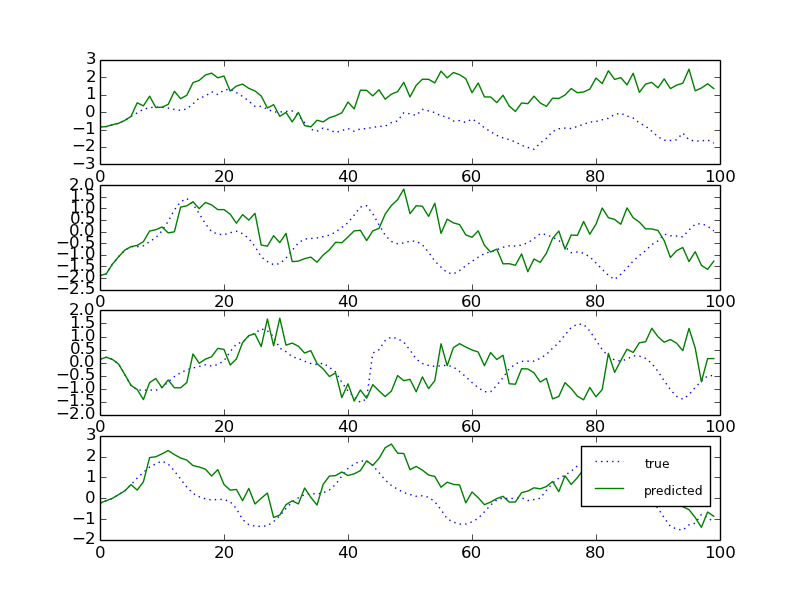
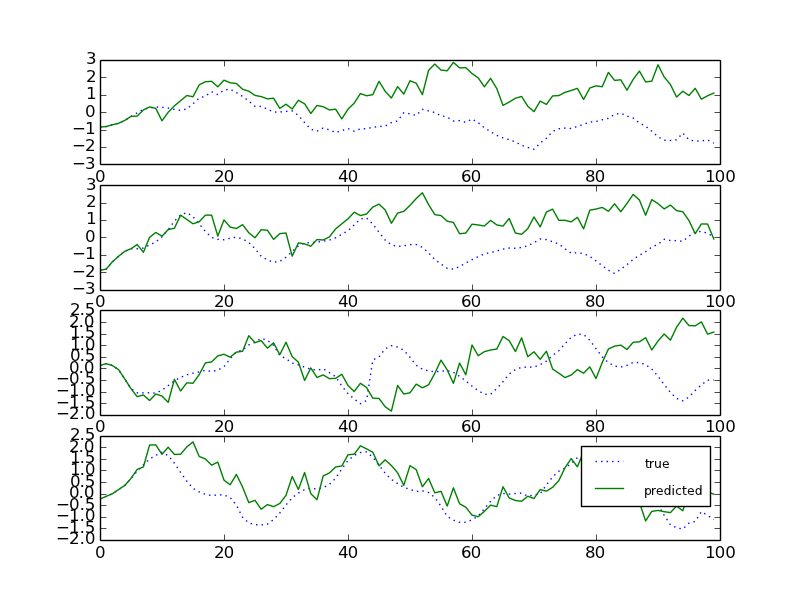
fix n_train_batches bug

diff --git a/crbm.py b/crbm.py
@@ -358,7 +358,7 @@ def train_crbm(learning_rate=1e-3, training_epochs=300,
     batchdata, seqlen, data_mean, data_std = load_data(dataset)
 
     # compute number of minibatches for training, validation and testing
-    n_train_batches = batchdata.get_value(borrow=True).shape[0] / batch_size
+    n_train_batches = (batchdata.get_value(borrow=True).shape[0] / delay * len(seqlen)) / batch_size
     n_dim = batchdata.get_value(borrow=True).shape[1]
 
     # valid starting indices
@@ -430,8 +430,8 @@ def train_crbm(learning_rate=1e-3, training_epochs=300,
             #print batch_index, this_cost
             mean_cost += [this_cost]
 
-        print 'Training epoch %d, cost is ' % epoch, numpy.mean(mean_cost)
         mean_cost_list.append(numpy.mean(mean_cost))
+        print 'Training epoch %d, cost is ' % epoch, mean_cost_list[-1]
 
     cost_plot(mean_cost_list)
     end_time = time.clock()
@@ -453,14 +453,15 @@ def cost_plot(mean_cost):
 def plot(data_idx, bd, generated_series):
     import pylab as plt
 
+    n_samples = generated_series[0].shape[0] - crbm.delay
     # plot first dimension of each sequence
     for i in xrange(len(generated_series)):
         # original
         start = data_idx[i]
         plt.subplot(len(generated_series), 1, i+1)
-        plt.plot(bd[start - crbm.delay:start + 100 - crbm.delay, 1],
+        plt.plot(bd[start - crbm.delay:start + n_samples - crbm.delay, 1],
                  label='true', linestyle=':')
-        plt.plot(generated_series[i, :100, 1], label='predicted',
+        plt.plot(generated_series[i, :n_samples, 1], label='predicted',
                  linestyle='-')
 
     leg = plt.legend()
